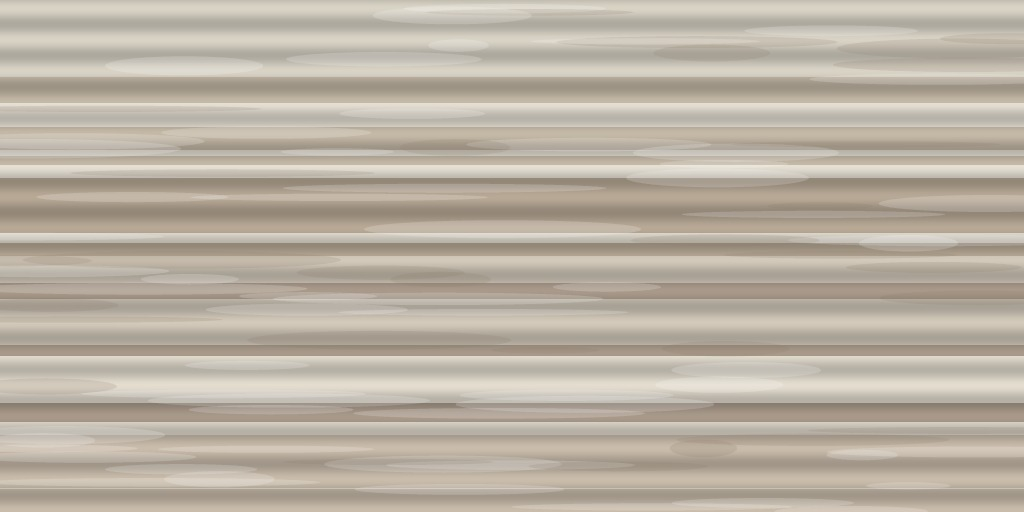
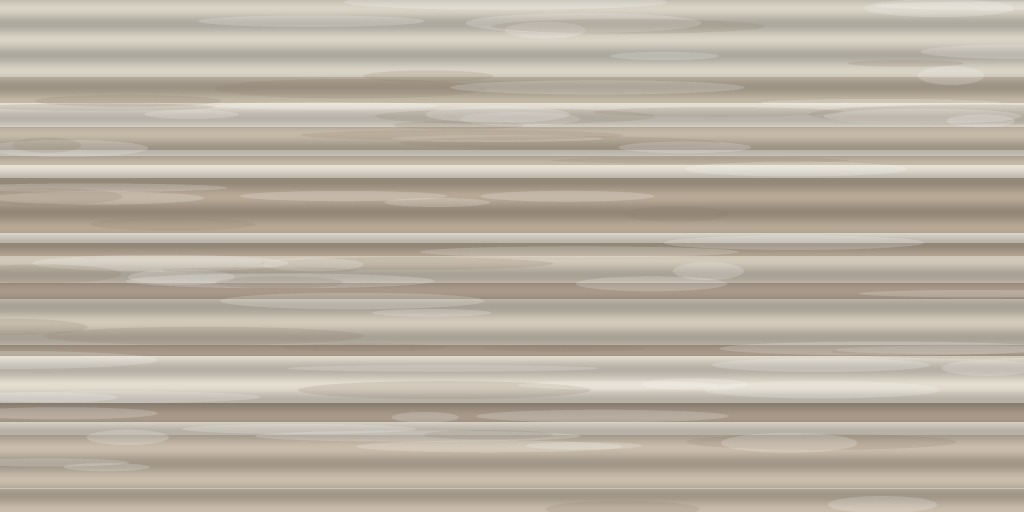
Load: sun direction + horizon colour baked from the HDR (scripts/bake-sky.mjs → sky.json, run by vite.config.ts, Node RGBE parse); Sky.build skips the 2M-pixel scans; planet texture seeded so its bake is reproducible; bake-textures rewrites only changed files
Values identical to the runtime scan (sun 0.8037/0.1198/0.5828, horizon 1.1/0.7358/0.4657); ?hdri= overrides fall back to scanning.

Claude-Session: https://claude.ai/code/session_01SW9TspzZkWPbvNMEUPqUxB

diff --git a/src/world/Sky.ts b/src/world/Sky.ts
@@ -4,8 +4,20 @@ import { CSM } from 'three/examples/jsm/csm/CSM.js';
 import { loadHDR } from '../core/assets';
 import { fogUniforms } from './Atmosphere';
 import { Noise2D } from '../core/noise';
+import { Rng } from '../core/rng';
 import { getActiveChunk } from '../chunks/registry';
 import { bakedTexture, preloadBakedTextures } from '../boot/bakedTextures';
+import { PUBLIC_BYTES } from '../boot/bytes.generated';
+
+/** public/assets/baked/<slug>/sky.json — the HDR's sun direction and horizon colour, scanned at build time (scripts/bake-sky.mjs). */
+async function loadBakedSky(hdri: string): Promise<{ sunDir: [number, number, number]; horizon: [number, number, number] } | null> {
+  const url = `/assets/baked/${getActiveChunk().slug}/sky.json`;
+  if (!(url in PUBLIC_BYTES) || new URLSearchParams(location.search).has('nobake') || new URLSearchParams(location.search).has('hdri')) return null;
+  try {
+    const j = await (await fetch(url)).json() as { hdri: string; sunDir: [number, number, number]; horizon: [number, number, number] };
+    return j.hdri === hdri ? j : null; // a different HDRI than the bake saw → scan at launch
+  } catch { return null; }
+}
 
 /**
  * Lighting rig: HDRI sky for IBL + background, a cascaded-shadow sun matched to the
@@ -31,8 +43,10 @@ export class Sky {
     const qs = new URLSearchParams(location.search);
     const qn = (k: string, d: number) => (qs.has(k) ? parseFloat(qs.get(k)!) : d);
     const hdriName = qs.get('hdri') ?? S.hdri;
-    const [hdr] = await Promise.all([loadHDR(`/assets/hdri/${hdriName}_2k.hdr`), preloadBakedTextures()]); // baked procedural textures (clouds, fur…) ride along with the HDR
-    this.findSun(hdr);
+    // baked procedural textures (clouds, fur…) and the baked sun / horizon (scripts/bake-sky.mjs) ride along with the HDR
+    const [hdr, , baked] = await Promise.all([loadHDR(`/assets/hdri/${hdriName}_2k.hdr`), preloadBakedTextures(), loadBakedSky(hdriName)]);
+    if (baked) this.sunDir.fromArray(baked.sunDir).normalize();
+    else this.findSun(hdr);
     hdr.mapping = THREE.EquirectangularReflectionMapping;
     const pmrem = new THREE.PMREMGenerator(this.renderer);
     pmrem.compileEquirectangularShader();
@@ -45,7 +59,7 @@ export class Sky {
     this.scene.backgroundBlurriness = 0.0;
 
     // Fog colour = average of the sky just above the horizon in the view direction
-    const horizon = this.sampleHorizon(hdr);
+    const horizon = baked ? new THREE.Color(...baked.horizon) : this.sampleHorizon(hdr);
     this.scene.fog = new THREE.Fog(horizon, 1, 1e6); // distances unused: Atmosphere.ts overrides the maths
     fogUniforms.fogSunDir.value.copy(this.sunDir);
     fogUniforms.fogSunColor.value.set(...S.fogSunColor);
@@ -276,6 +290,7 @@ function makeCloudTexture() {
 }
 
 function makePlanetTexture() {
+  const rng = new Rng(4242); // seeded: the bake (scripts/bake-textures.mjs) must be reproducible
   const c = document.createElement('canvas'); c.width = 1024; c.height = 512;
   const g = c.getContext('2d')!;
   const bands = ['#d9d3c6', '#c4b8a6', '#e6e0d4', '#b8a996', '#d2c9ba', '#a8998a', '#e3dccf', '#c9bcab'];
@@ -289,7 +304,7 @@ function makePlanetTexture() {
   g.globalAlpha = 0.18;
   for (let i = 0; i < 90; i++) {
     g.fillStyle = i % 3 ? '#ffffff' : '#8a7a68'; g.beginPath();
-    g.ellipse(Math.random() * 1024, Math.random() * 512, 30 + Math.random() * 140, 3 + Math.random() * 7, 0, 0, Math.PI * 2); g.fill();
+    g.ellipse(rng.next() * 1024, rng.next() * 512, 30 + rng.next() * 140, 3 + rng.next() * 7, 0, 0, Math.PI * 2); g.fill();
   }
   const t = new THREE.CanvasTexture(c); t.colorSpace = THREE.SRGBColorSpace; return t;
 }

diff --git a/src/boot/manifest.ts b/src/boot/manifest.ts
@@ -9,6 +9,7 @@ import { pbrUrls } from '../core/assets';
 import { bakedTerrainUrl } from '../world/BakedTerrain';
 import { bakedCardUrls } from '../world/BakedCards';
 import { bakedTextureUrls } from './bakedTextures';
+import { PUBLIC_BYTES } from './bytes.generated';
 
 const pbr = pbrUrls; // tier-aware: the phone's _1k files are what it downloads, so they are what it declares
 const gltf = (id: string) => [`/assets/models/${id}/${id}.gltf`, `/assets/models/${id}/${id}.bin`, ...['diff', 'nor_gl', 'arm'].map((k) => `/assets/models/${id}/textures/${id}_${k}_1k.jpg`)];
@@ -26,5 +27,6 @@ export function chunkFiles(def: ChunkDef): ChunkFiles {
     ...lod('Lantern_01'),
   ]).filter((f) => !terrain.includes(f) && !trees.includes(f)); // pine_bark, rock_ground: counted where first loaded
   const props = uniq([...lod('rock_moss_set_01'), ...lod('tree_stump_01'), ...lod('dead_tree_trunk')]);
-  return { sky: [`/assets/hdri/${def.sky.hdri}_2k.hdr`], baked: bakedTextureUrls(def.slug), terrain, trees, cabins, props };
+  const skyJson = `/assets/baked/${def.slug}/sky.json`;
+  return { sky: [`/assets/hdri/${def.sky.hdri}_2k.hdr`, ...(skyJson in PUBLIC_BYTES ? [skyJson] : [])], baked: bakedTextureUrls(def.slug), terrain, trees, cabins, props };
 }

diff --git a/src/boot/bytes.generated.ts b/src/boot/bytes.generated.ts
@@ -4,6 +4,7 @@ export const PUBLIC_BYTES = {
   "/assets/baked/pine-hollow/card-arm.jpg": 396730,
   "/assets/baked/pine-hollow/card-normal.jpg": 589258,
   "/assets/baked/pine-hollow/cards.json": 184,
+  "/assets/baked/pine-hollow/sky.json": 252,
   "/assets/baked/pine-hollow/terrain.bin": 524312,
   "/assets/baked/pine-hollow/terrain.json": 226,
   "/assets/baked/pine-hollow/tex/clouds.jpg": 63536,
@@ -11,7 +12,7 @@ export const PUBLIC_BYTES = {
   "/assets/baked/pine-hollow/tex/fur-boar-normal.png": 706258,
   "/assets/baked/pine-hollow/tex/fur-deer-map.jpg": 63863,
   "/assets/baked/pine-hollow/tex/fur-deer-normal.png": 741592,
-  "/assets/baked/pine-hollow/tex/planet.jpg": 60530,
+  "/assets/baked/pine-hollow/tex/planet.jpg": 59994,
   "/assets/baked/pine-hollow/textures.json": 633,
   "/assets/hdri/belfast_sunset_puresky_2k.hdr": 4563204,
   "/assets/hdri/kloofendal_28d_misty_puresky_2k.hdr": 4467957,

diff --git a/vite.config.ts b/vite.config.ts
@@ -35,6 +35,8 @@ function assetIndex(): string {
 function bakeChunks() {
   try { execSync('node --import ./scripts/bake-loader.mjs scripts/bake-chunk.mjs', { stdio: 'inherit' }); }
   catch (e) { console.warn('[bake] terrain bake failed — launch falls back to the analytic field', e); }
+  try { execSync('node --import ./scripts/bake-loader.mjs scripts/bake-sky.mjs', { stdio: ['ignore', 'inherit', 'ignore'] }); }
+  catch (e) { console.warn('[bake] sky bake failed — launch scans the HDR', e); }
   // the branch cards need a GPU (scripts/bake-cards.mjs runs headless Chromium locally, outputs are committed): only check
   try { execSync('node scripts/bake-cards.mjs --check', { stdio: 'inherit' }); }
   catch { console.warn('[bake] branch cards are stale or missing — run `node scripts/bake-cards.mjs` with the dev server up; launch bakes at runtime meanwhile'); }
